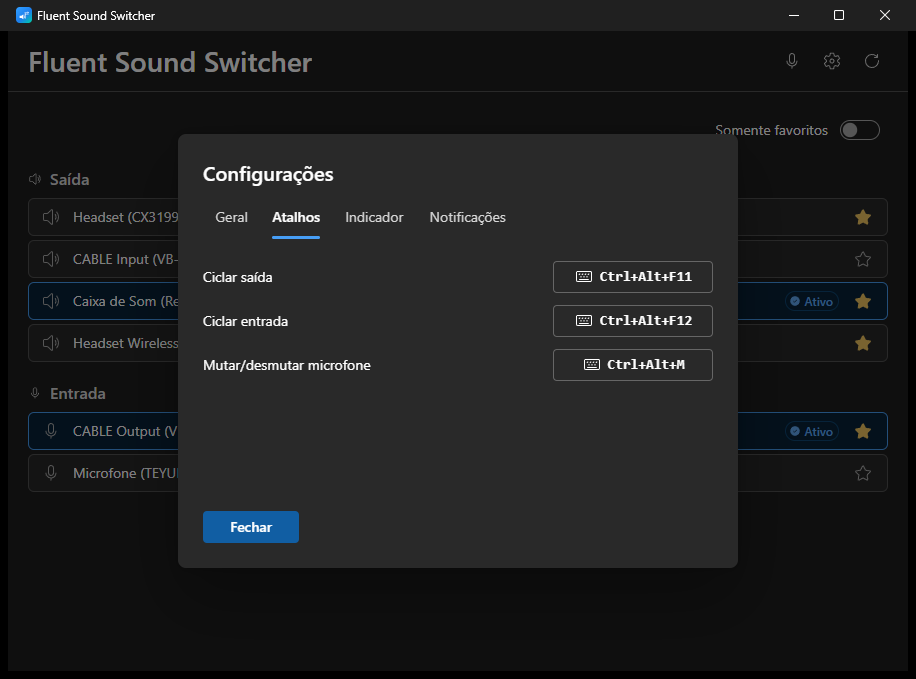
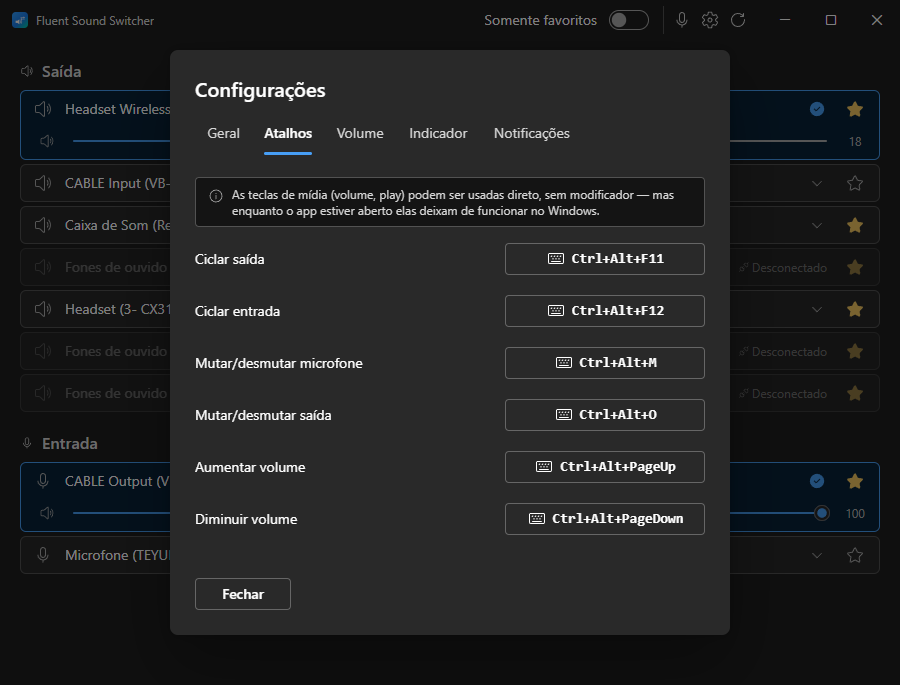
docs: refresh screenshots and correct the roadmap (#2)
Retook the three README screenshots against the current UI and added one of the tray quick-switch flyout. Marked accent-colour theming, the custom title bar and disconnected favourites as shipped in the README roadmap and in CLAUDE.md's status paragraph.

diff --git a/README.md b/README.md
@@ -29,21 +29,29 @@ SoundSwitch's long-standing annoyance where the on-screen popup hides **behind
 the taskbar in fullscreen apps** like Steam Big Picture — our overlay renders on
 top, every time.
 
-> ⚠ **Early development (`0.2.x`).** Functional and in daily use, polishing
+> ⚠ **Early development (`0.3.x`).** Functional and in daily use, polishing
 > toward a 1.0. Built in phased iterations.
 
 ## 📸 Screenshots
 
 <div align="center">
 
-![Main window — device list with favorites, active device, and header controls](docs/screenshots/main.png)
+![Main window — device list with favorites, per-device volume, disconnected devices, and the app-drawn title bar carrying the controls](docs/screenshots/main.png)
 
 </div>
 
 <div align="center">
 
-<img src="docs/screenshots/settings.png" width="49%" alt="Settings — General tab" />
+<img src="docs/screenshots/settings.png" width="49%" alt="Settings — General tab: language, theme, title bar, Windows accent colour, start with Windows" />
 <img src="docs/screenshots/hotkeys.png" width="49%" alt="Settings — Hotkeys tab" />
+
+</div>
+
+<div align="center">
+
+<img src="docs/screenshots/mini-menu.png" width="42%" alt="Tray quick-switch flyout — favorite outputs and inputs plus the mic mute toggle" />
+
+<sub>Tray quick-switch flyout (left-click on the tray icon).</sub>
 
 </div>
 
@@ -59,6 +67,9 @@ top, every time.
 - 🔔 **Switch notifications** — any mix of a native Windows toast, an on-screen banner, and a sound.
 - 🔌 **Auto-switch on connect** *(optional)* — plug in a TV/monitor with audio and it can grab the default output.
 - 🖼 **Output-device tray icon** *(optional)* — a second tray icon mirroring the current output, using the icon Windows shows for it.
+- 🎨 **Your Windows accent colour** — the palette is built from the accent and the six shades Windows derives around it, live when you change it. Switchable back to the Fluent blue.
+- 🪟 **App-drawn title bar** carrying the app's own controls, or the system one if you prefer it (Settings → General, applied live).
+- 😴 **Sleeping favourites keep their place** — a wireless headset that dozes off stays in the list, dimmed and marked *Disconnected*, keeping its star and its position in the cycle order.
 - 🧰 **CLI** with the same actions as the GUI (`list`, `switch`, `cycle`, `mute`).
 - 🚀 **Start with Windows** (optionally minimized to tray).
 - 🌍 **Multi-language** — **pt-BR** (default) and **en**, tray and notifications included.
@@ -252,8 +263,9 @@ then update `plugins.updater.pubkey` in `tauri.conf.json` and re-set the secret.
 | ✅ | Logging, CI on every push/PR, and a release with checksums + notes |
 | ✅ | Multi-monitor placement for the floating windows |
 | ✅ | Per-device volume, output mute, volume hotkeys & OSD |
-| ⏳ | Custom title bar (Windows 11 snap layouts need care) |
-| ⏳ | Accent-colour theming (follow the Windows accent colour) |
+| ✅ | Accent-colour theming (follows the Windows accent colour, live) |
+| ✅ | Custom title bar, with the system one as an option (snap layouts) |
+| ✅ | Disconnected favourites keep their place in the list and the cycle |
 | ⏳ | Code signing (Authenticode cert — removes the SmartScreen warning) |
 | 🔮 | Per-app audio profiles *(experimental)* |
 

diff --git a/CLAUDE.md b/CLAUDE.md
@@ -27,10 +27,12 @@ Picture).
 
 ## Status
 
-Phases 0–8 and 10–18 done (9 deferred); `0.2.0` adds per-device volume, output
+Phases 0–8 and 10–21 done (9 deferred). `0.2.0` added per-device volume, output
 mute, volume hotkeys + OSD, multi-monitor placement for the floating windows,
-backend translations, logging, CI and the first tests. Remaining: a custom title
-bar, accent-colour theming, code signing (Authenticode cert, removes the
+backend translations, logging, CI and the first tests; `0.3.x` added
+accent-colour theming (Phase 19), the custom title bar with the system one as an
+option (Phase 20) and disconnected devices keeping their place (Phase 21), plus
+`pnpm release`. Remaining: code signing (Authenticode cert, removes the
 SmartScreen warning) and per-app profiles (Phase 9, experimental, deferred). The
 phase numbering in `CHANGELOG.md` is the source of truth.
 

diff --git a/CHANGELOG.md b/CHANGELOG.md
@@ -4,6 +4,18 @@ All notable changes to this project are documented here.
 Format based on [Keep a Changelog](https://keepachangelog.com/en/1.1.0/);
 the project follows phased iterations (see `README.md`).
 
+## [Unreleased]
+
+### Docs
+
+- Refreshed the README screenshots to the current UI (app-drawn title bar with
+  the controls in it, per-device volume, disconnected devices) and added one of
+  the tray quick-switch flyout.
+- The README's feature list and roadmap now reflect what shipped in `0.3.x`:
+  accent-colour theming, the custom title bar and disconnected favourites
+  keeping their place are done; code signing and per-app profiles remain. Same
+  correction to the status paragraph in `CLAUDE.md`.
+
 ## [0.3.3] - 2026-08-29
 
 <!-- release-notes -->
